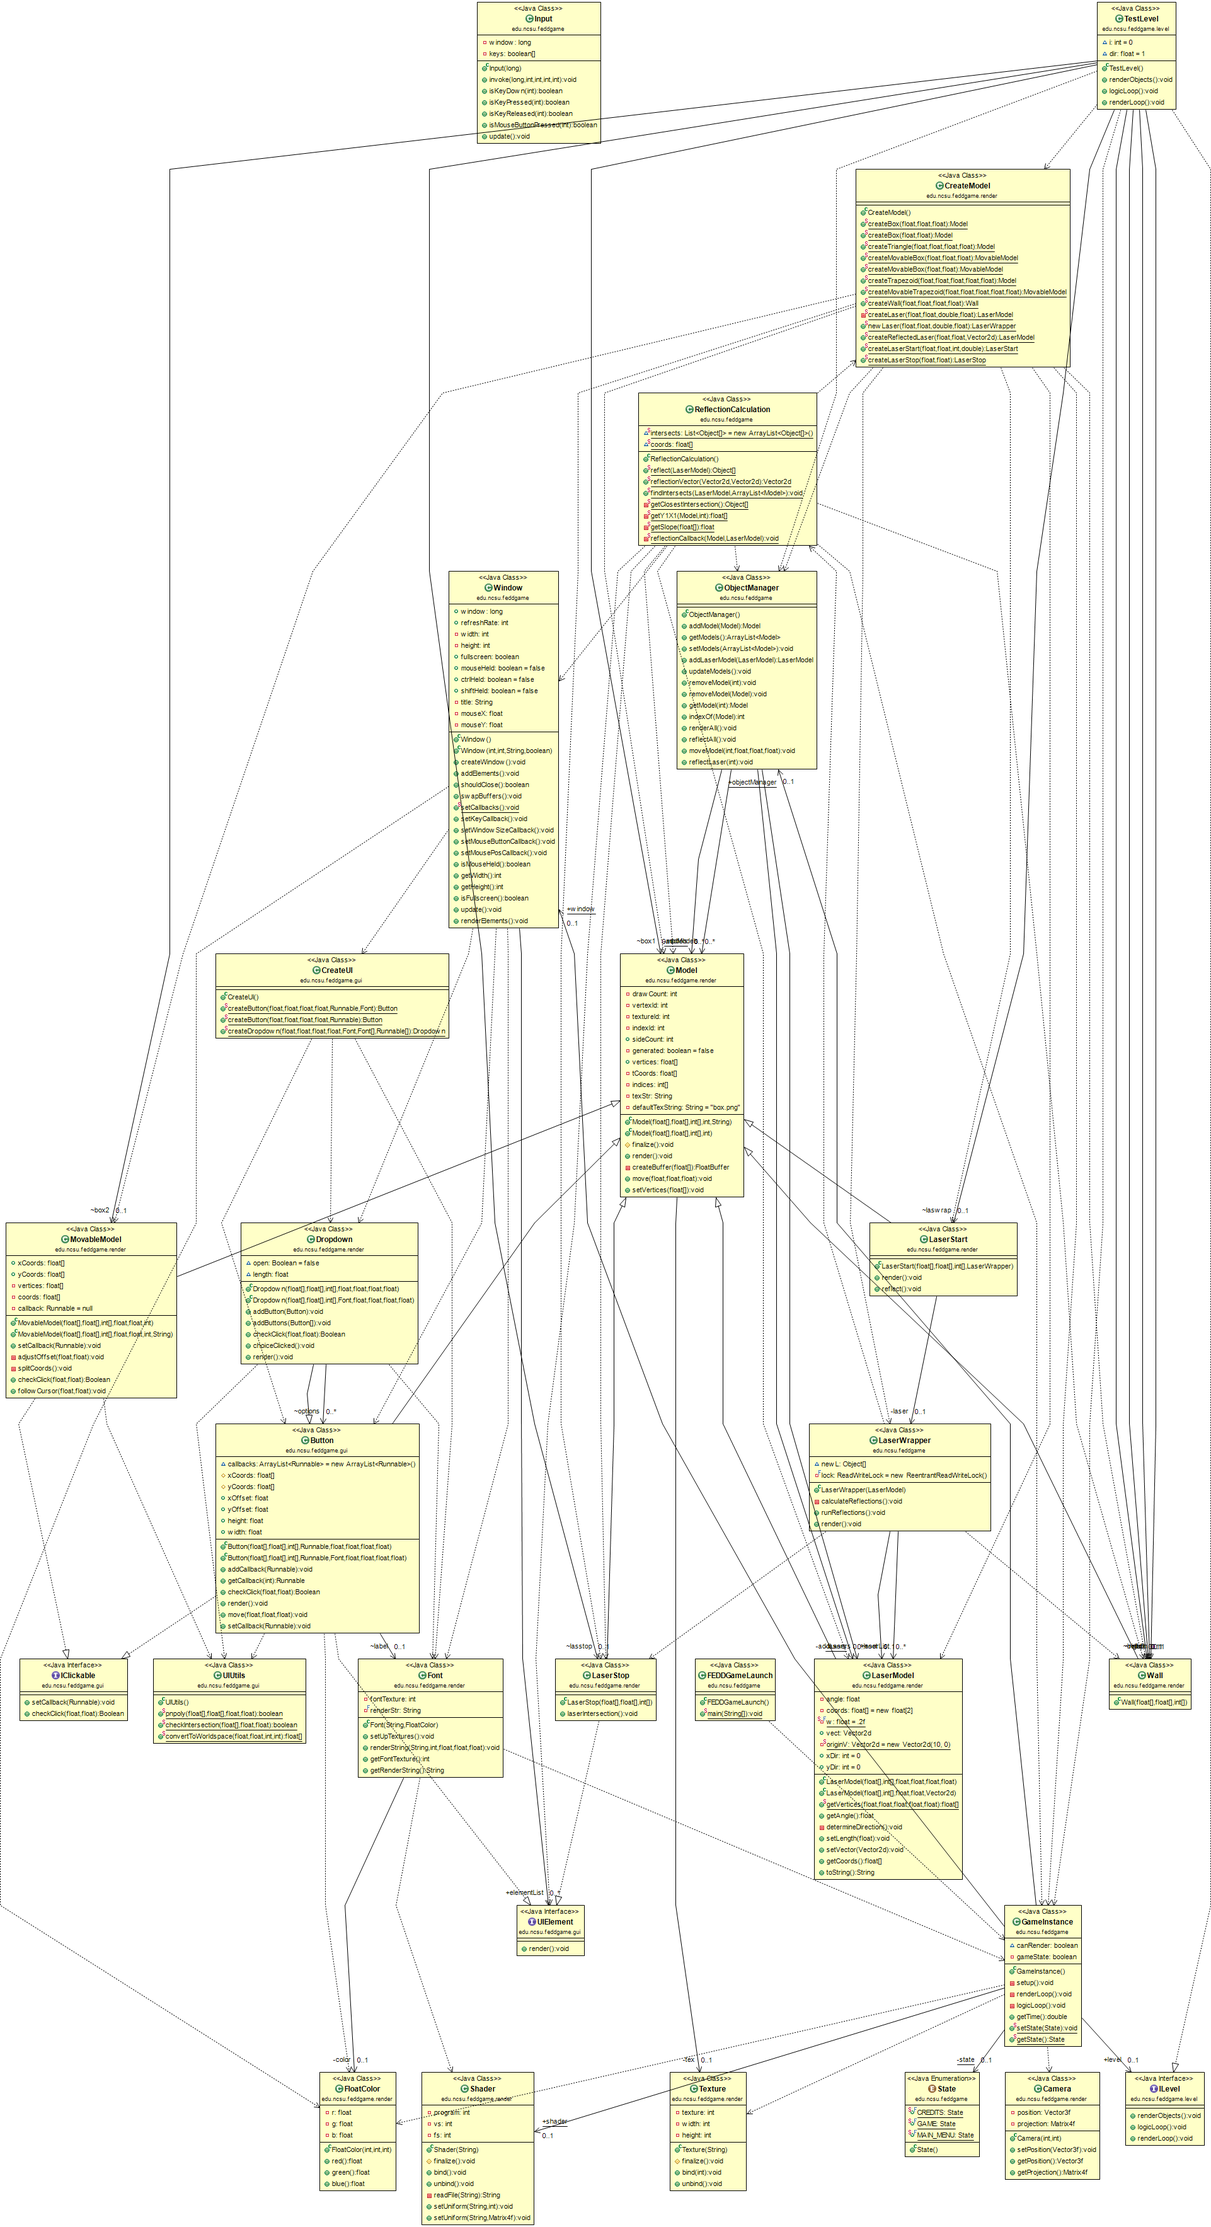
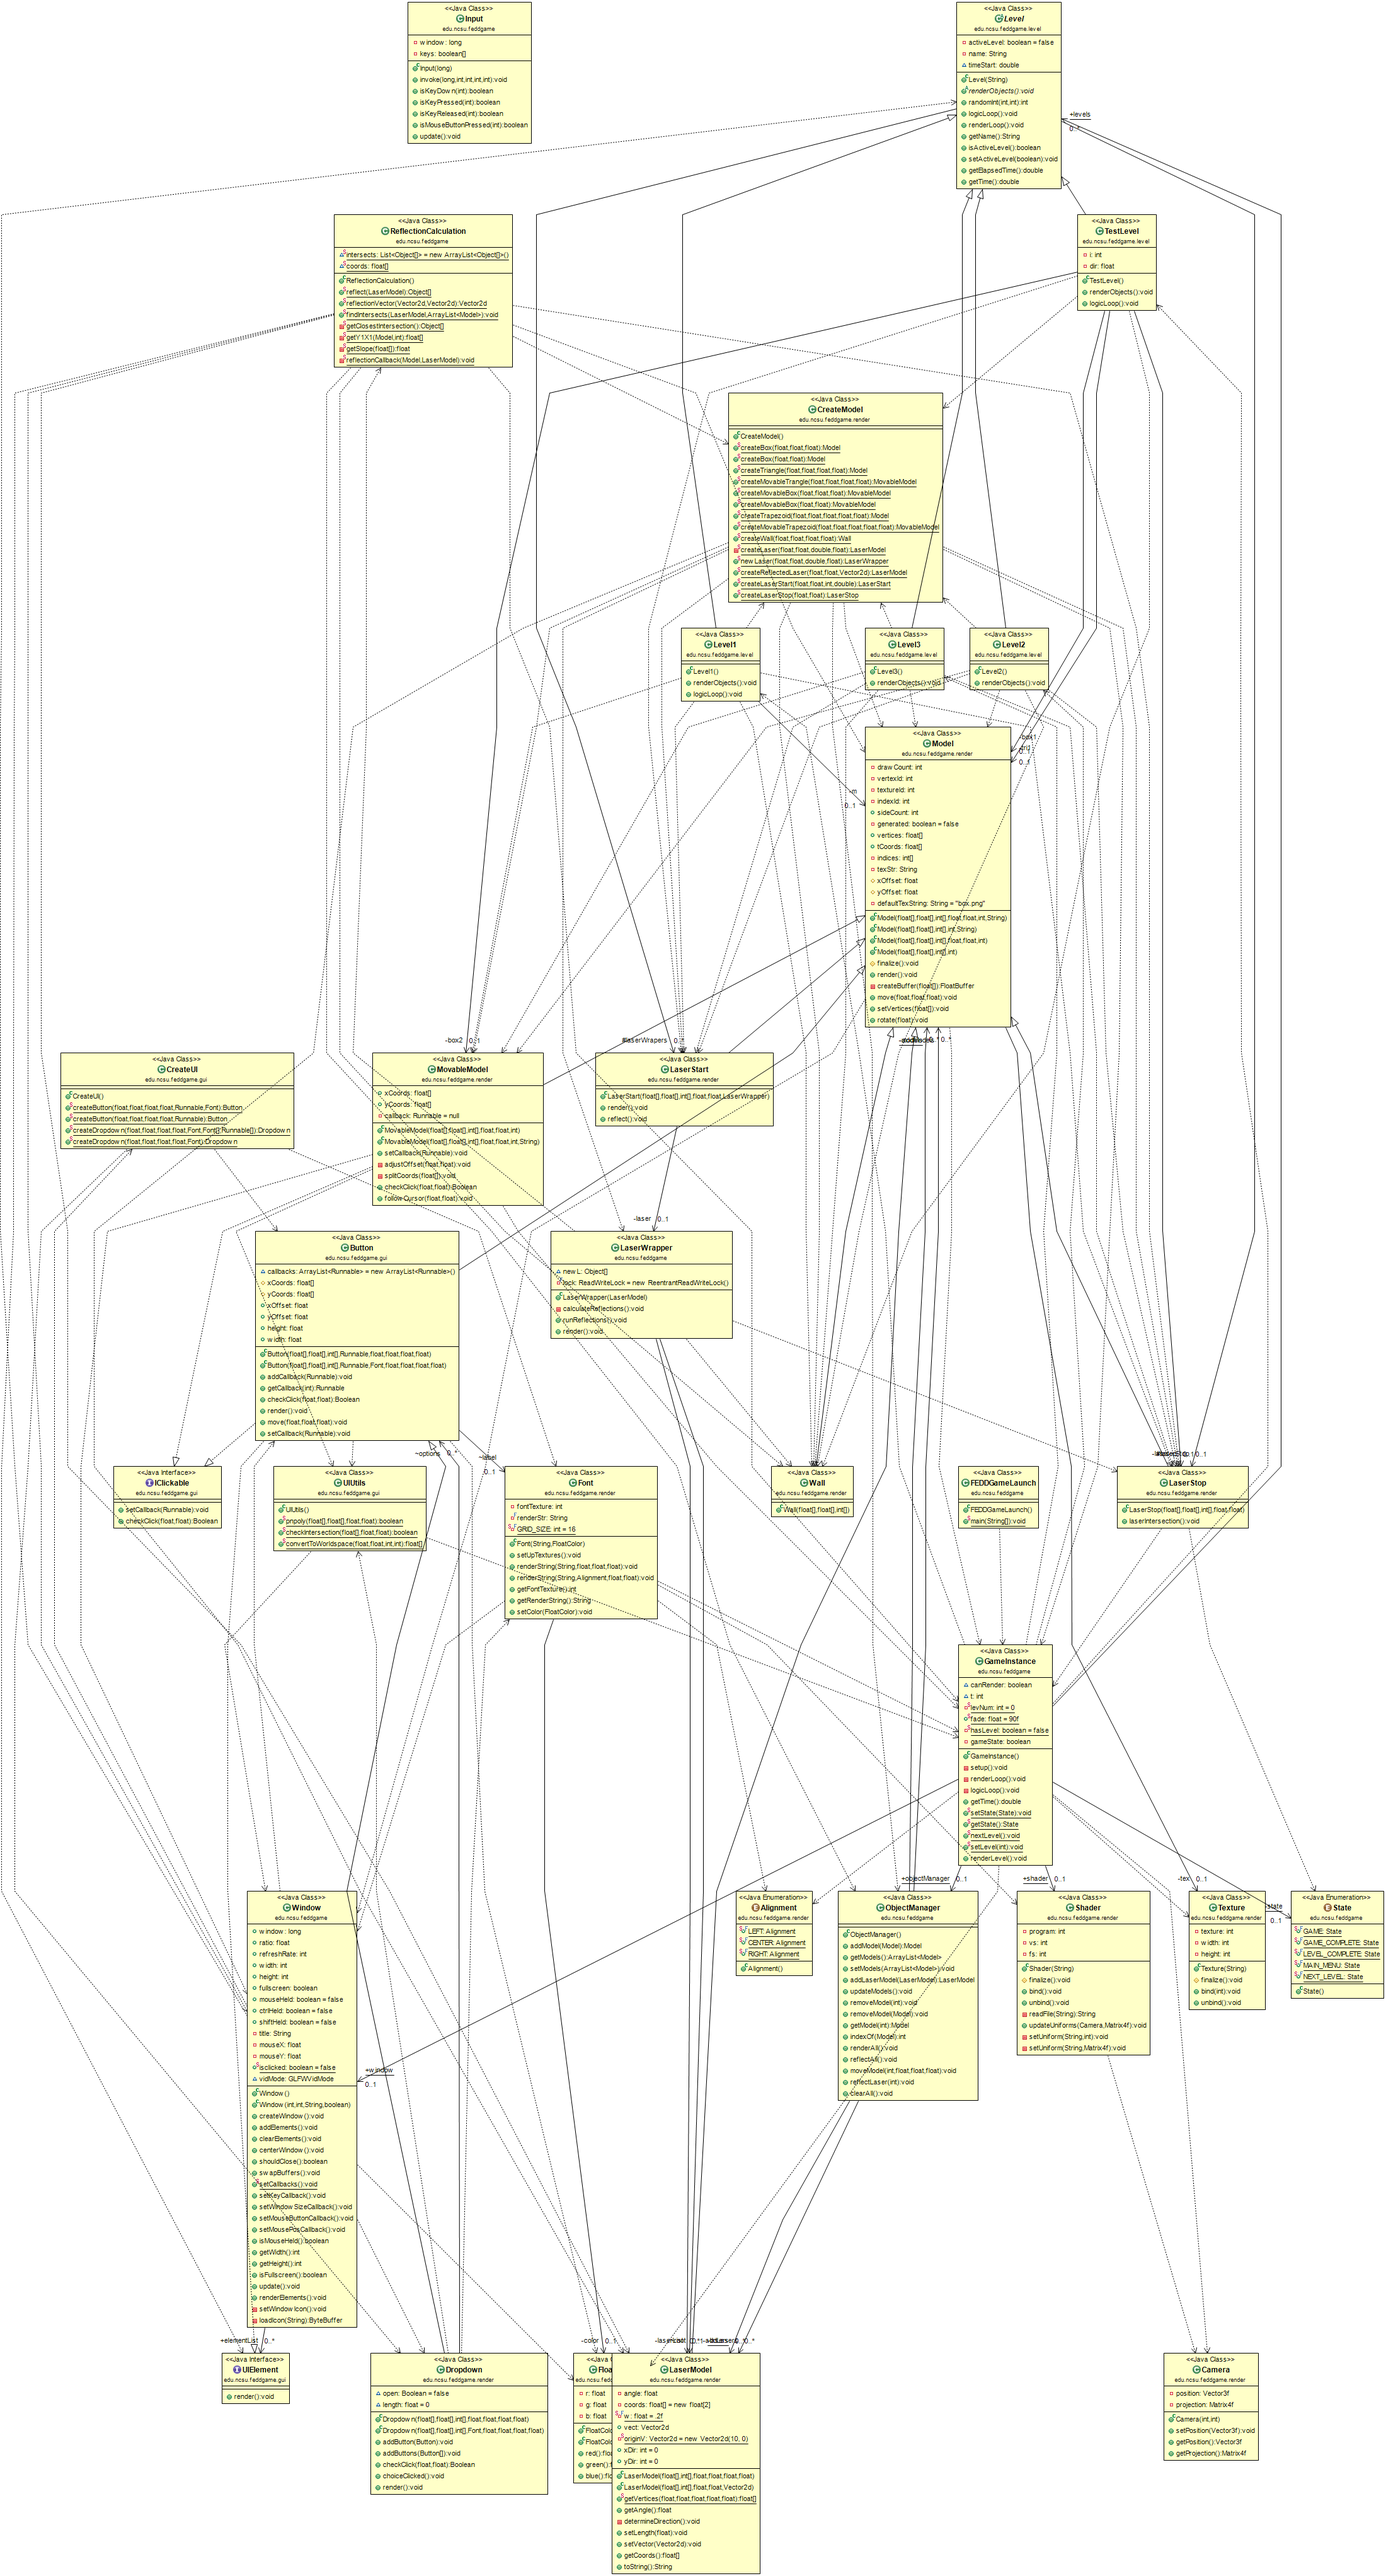
Updated Lasers and Clicking
Moved LaserStart over to an array to allow for multiple lasers in the
future. Fixed detection of mouse clicks that allowed the user to move
models around while the level was over. Removed unnecessary code in the
level classes for reflection of the lasers. Also updated the class
diagram because lol.

diff --git a/src/edu/ncsu/feddgame/level/TestLevel.java b/src/edu/ncsu/feddgame/level/TestLevel.java
@@ -10,7 +10,6 @@ public class TestLevel extends Level {
 
 	private Model box1, tri1;
 	private MovableModel box2;
-	private Wall top, bottom, left, right;
 	private LaserStop lasstop;
 	private int i;
 	private float dir;
@@ -21,7 +20,7 @@ public class TestLevel extends Level {
 	
 	@Override
 	public void renderObjects() {
-		laserWrap = CreateModel.createLaserStart(7.5f, 9, 3, Math.toRadians(251));
+		laserWrapers.add(CreateModel.createLaserStart(7.5f, 9, 3, Math.toRadians(251)));
 		lasstop = CreateModel.createLaserStop(3, -9f);
 		box1 = CreateModel.createBox(0,0);
 		box2 = CreateModel.createMovableBox(4.05f, -5.925f);
@@ -30,10 +29,10 @@ public class TestLevel extends Level {
 		tri1 = CreateModel.createTriangle(-4, -4, -1, -2);
 		box1.rotate((float)Math.toRadians(45));
 		{ 	//Walls
-			top = CreateModel.createWall(0f, 10f, 20f, .5f);
-			bottom = CreateModel.createWall(0f, -10f, 20f, .5f);
-			left = CreateModel.createWall(-10f, 0f, .5f, 20f);
-			right = CreateModel.createWall(10f, 0f, .5f, 20f);
+			CreateModel.createWall(0f, 10f, 20f, .5f);
+			CreateModel.createWall(0f, -10f, 20f, .5f);
+			CreateModel.createWall(-10f, 0f, .5f, 20f);
+			CreateModel.createWall(10f, 0f, .5f, 20f);
 		}
 		tri1.rotate(.3f);
 		i = 0;
@@ -42,9 +41,7 @@ public class TestLevel extends Level {
 	
 	@Override
 	public void logicLoop() {
-		if (laserWrap != null)
-			laserWrap.reflect();
-		
+		super.logicLoop();
 		if (i < 160) {
 			if (box1 != null)
 				box1.move(0.05f * dir, 0f, 0f); // Test animation of models, this pings the box back and forth

diff --git a/src/edu/ncsu/feddgame/Window.java b/src/edu/ncsu/feddgame/Window.java
@@ -263,7 +263,7 @@ public class Window {
 			if (button == GLFW_MOUSE_BUTTON_LEFT){ 	//If left mouse button
 				if (action == GLFW_RELEASE){ 	//Set a boolean variable based on state of mouse (GLFW won't poll mouse state again if already pressed, need to manually store state)
 					mouseHeld = false;
-				}else if (action == GLFW_PRESS){
+				}else if (action == GLFW_PRESS && GameInstance.gameState){
 					mouseHeld = true;
 					for(int j = GameInstance.objectManager.getModels().size()-1; j >= 0; j--){ 	//Iterate over all models in the scene
 						Model b = GameInstance.objectManager.getModel(j);
@@ -275,7 +275,11 @@ public class Window {
 									try{
 									wait(0); 			//Don't ask: the game breaks without some random code before the followCursor call
 									}catch (Exception e){}
-									m.followCursor(mouseX, mouseY);
+									if (GameInstance.gameState){ 	//Don't ask about this redundant code either...
+										m.followCursor(mouseX, mouseY);
+									}else{
+										return;
+									}
 								}
 								}).start();
 								break;

diff --git a/src/edu/ncsu/feddgame/level/Level.java b/src/edu/ncsu/feddgame/level/Level.java
@@ -1,5 +1,6 @@
 package edu.ncsu.feddgame.level;
 
+import java.util.ArrayList;
 import java.util.Random;
 
 import edu.ncsu.feddgame.render.LaserStart;
@@ -7,7 +8,7 @@ import edu.ncsu.feddgame.render.LaserStop;
 
 public abstract class Level {
 
-	protected LaserStart laserWrap;
+	protected ArrayList<LaserStart> laserWrapers = new ArrayList<LaserStart>();
 	protected LaserStop laserStop;
 	private boolean activeLevel = false;
 	private String name;
@@ -24,13 +25,17 @@ public abstract class Level {
 	}
 
 	public void logicLoop() {
-		if (laserWrap != null)
-			laserWrap.reflect();
+		if (laserWrapers != null){
+			for (LaserStart l : laserWrapers)
+				l.reflect();
+		}
 	}
 
 	public void renderLoop() {
-		if (laserWrap != null)
-			laserWrap.render();
+		if (laserWrapers != null){
+			for (LaserStart l : laserWrapers)
+				l.render();
+		}
 	}
 	
 	public String getName() {

diff --git a/src/edu/ncsu/feddgame/level/Level1.java b/src/edu/ncsu/feddgame/level/Level1.java
@@ -21,7 +21,7 @@ public class Level1 extends Level {
 			CreateModel.createWall(0, 1f, .25f, 18f);
 		}
 		
-		laserWrap = CreateModel.createLaserStart(-10f, -1f, 2, Math.toRadians(-45));
+		laserWrapers.add(CreateModel.createLaserStart(-10f, -1f, 2, Math.toRadians(-45)));
 		
 		CreateModel.createLaserStop(7, 10);
 		m = CreateModel.createMovableBox(4, 0);
@@ -33,8 +33,7 @@ public class Level1 extends Level {
 	
 	@Override
 	public void logicLoop() {
-		if (laserWrap != null)
-			laserWrap.reflect();
+		super.logicLoop();
 		
 		m.rotate(.005f);
 	}

diff --git a/src/edu/ncsu/feddgame/level/Level3.java b/src/edu/ncsu/feddgame/level/Level3.java
@@ -22,7 +22,7 @@ public class Level3 extends Level {
 			CreateModel.createWall(-4f, 2f, 12f, .25f);
 			CreateModel.createWall(2f, -1.37f, .25f, 7f);
 		}
-		laserWrap = CreateModel.createLaserStart(-10f, -1f, 2, Math.toRadians(-45));
+		laserWrapers.add(CreateModel.createLaserStart(-10f, -1f, 2, Math.toRadians(-45)));
 		
 		Model laserStop = CreateModel.createLaserStop(-10, 7);
 		laserStop.rotate(1.55f);

diff --git a/src/edu/ncsu/feddgame/level/Level2.java b/src/edu/ncsu/feddgame/level/Level2.java
@@ -22,7 +22,7 @@ public class Level2 extends Level {
 			CreateModel.createWall(-5f, 2f, .25f, 18f);
 			CreateModel.createWall(2f, -2f, .25f, 16f);
 		}
-		laserWrap = CreateModel.createLaserStart(-10f, -1f, 2, Math.toRadians(-45));
+		laserWrapers.add(CreateModel.createLaserStart(-10f, -1f, 2, Math.toRadians(-45)));
 		
 		Model model = CreateModel.createLaserStop(10, 7);
 		model.rotate(-1.55f);

diff --git a/src/edu/ncsu/feddgame/GameInstance.java b/src/edu/ncsu/feddgame/GameInstance.java
@@ -60,7 +60,7 @@ public class GameInstance {
 	public static Shader shader;
 	
 	private static State state;
-	private volatile boolean gameState; // Boolean value to pause logic Thread when state != GAME
+	public static volatile boolean gameState; // Boolean value to pause logic Thread when state != GAME
 	
 	// Game begins here
 	public GameInstance() {
